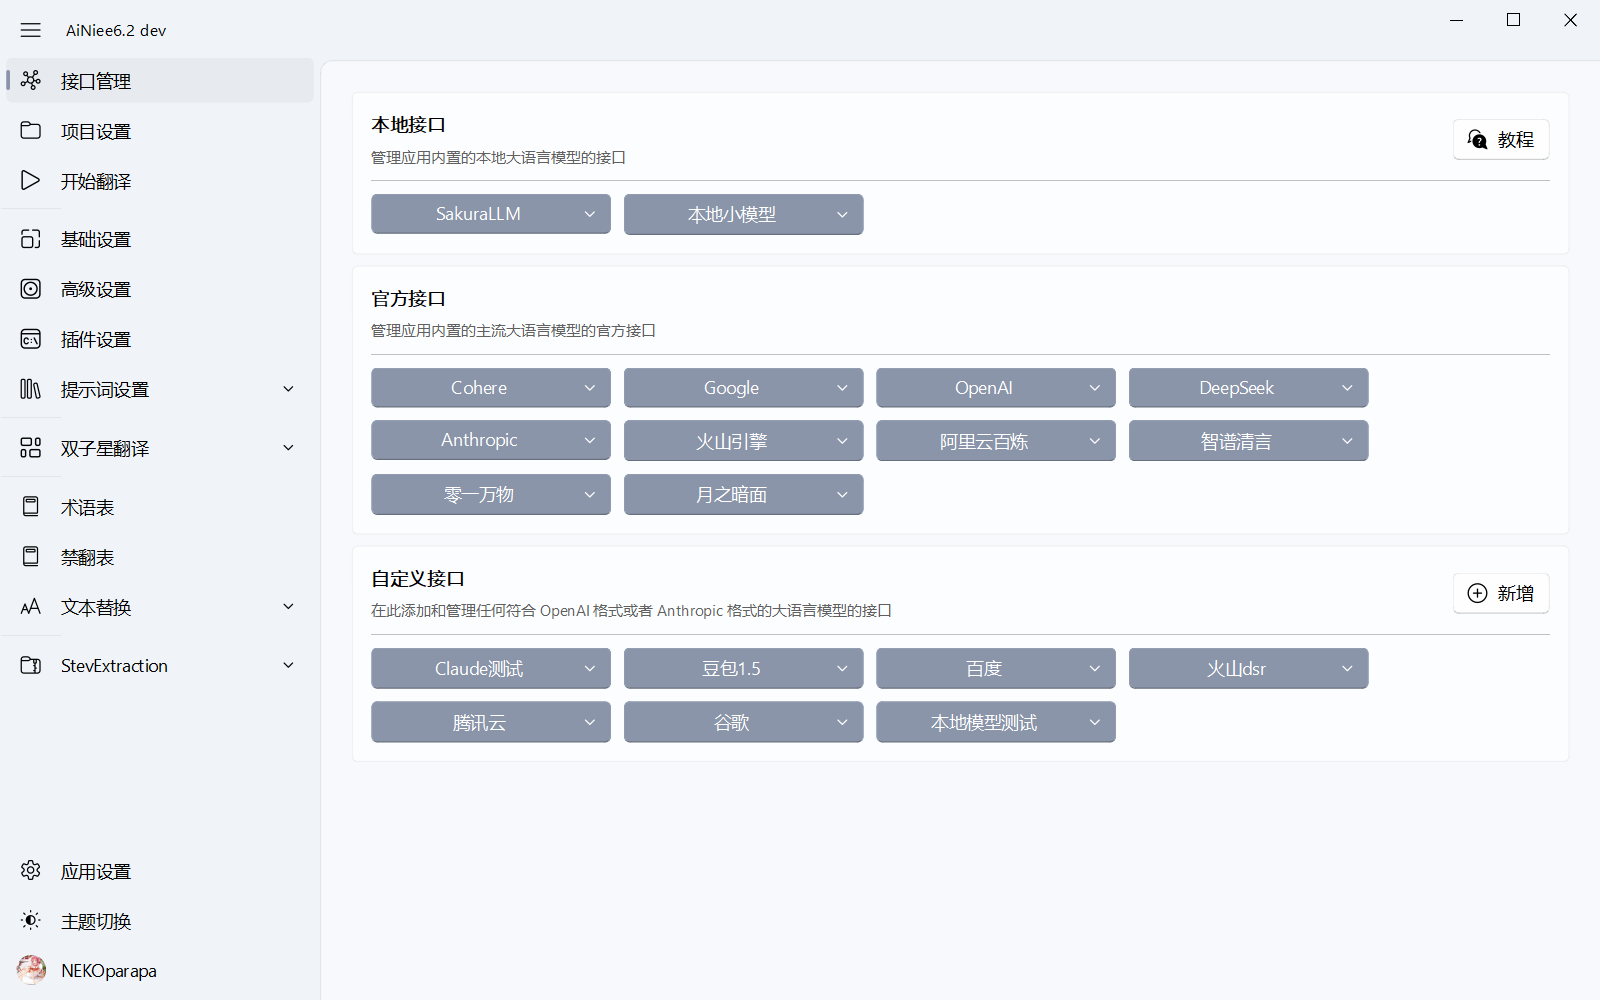
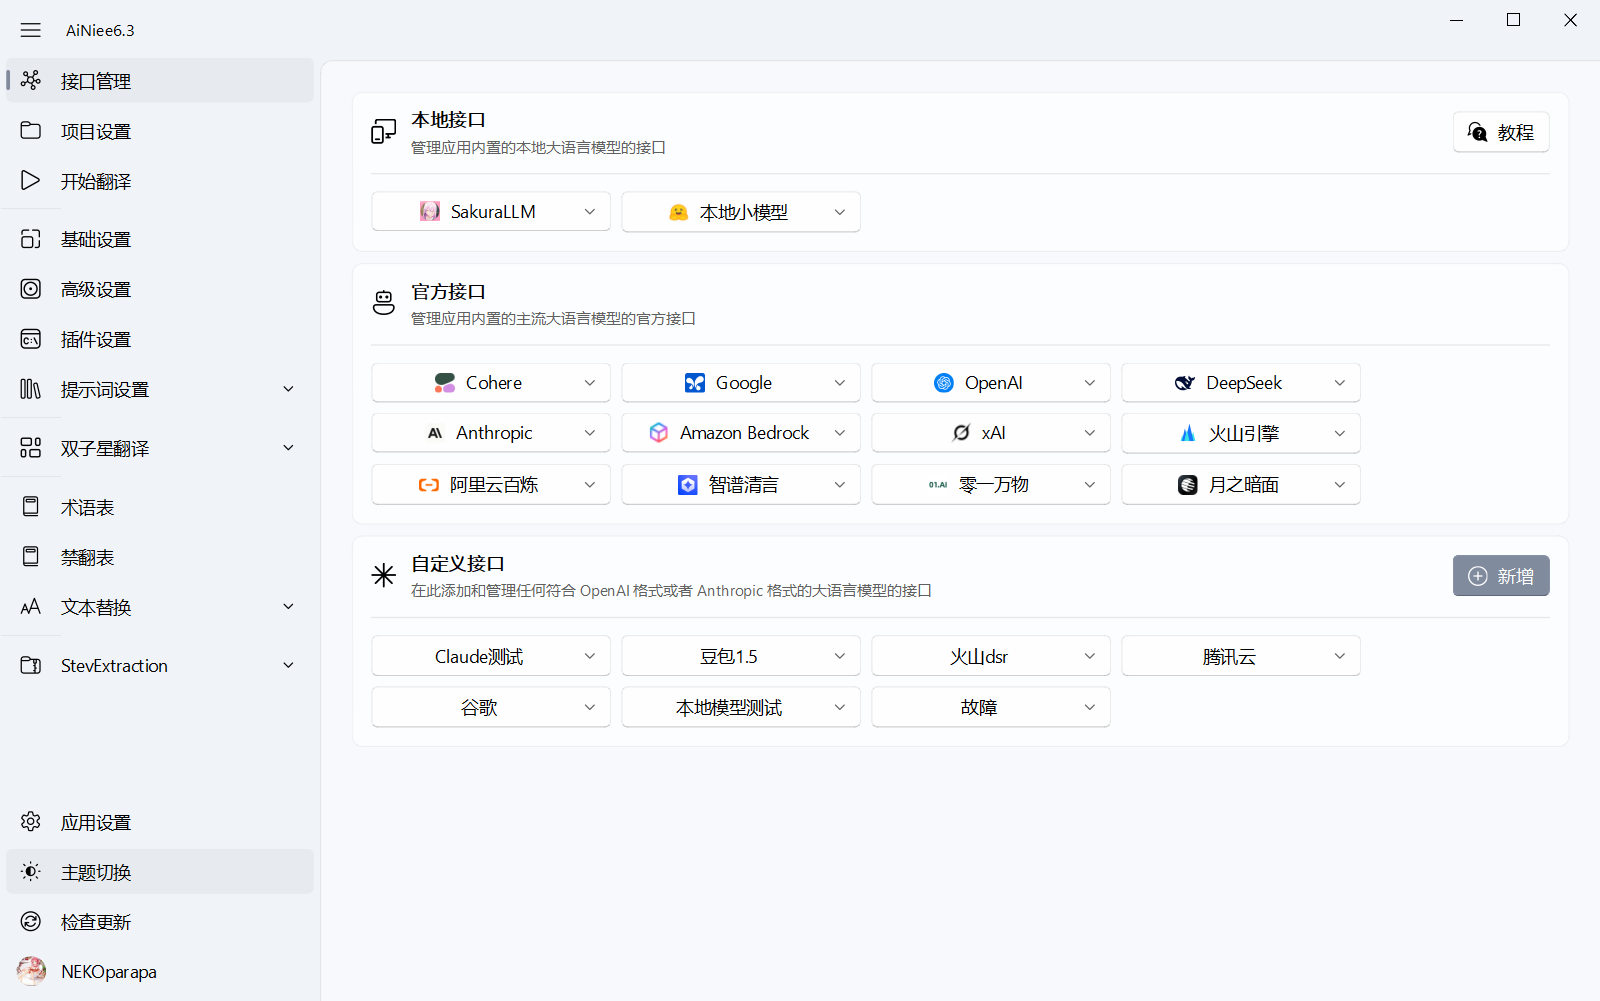
更新主页说明

diff --git a/README.md b/README.md
@@ -58,15 +58,7 @@
   
   >`接口名称`: 选择你之前设置的接口<br>
 
-  >`项目类型`: 选择待翻译的文件类型，小说、字幕、文档可直接进行翻译，游戏需要文本提取工具进行配合<br>
-
-  >`原文语言`: 选择相应的原文文本语言<br>
-
-  >`译文语言`: 你希望翻译成的语言<br>
-
-  >`输入文件夹`: 把原文件放在这个文件夹内<br>
-
-  >`输出文件夹`: 选择翻译后文件的存储文件夹，请不要和输入文件夹一个路径<br>
+  >`输入文件夹`: 将原文件单独放置一个新的文件夹，并将该文件夹拖入框内<br>
 
 * **第三步：开始翻译**
 
@@ -90,6 +82,7 @@
       |[Cohere](https://dashboard.cohere.com/)|Command系列|免费账号可白嫖，速度一般|一般|用途广泛|
       |[Anthropic](https://console.anthropic.com/dashboard)|Claude系列|免费账号绑卡可白嫖少量额度，速度缓慢|贵|用途广泛|
       |[Deepseek](https://platform.deepseek.com/usage)|Deepseek系列|注册送少量免费额度，速度极快|便宜|用途广泛|
+      |[xAI](https://x.ai/)|Grok系列|绑卡预付费，送150刀|一般|用途广泛|
       |[Amazon Bedrock](https://aws.amazon.com/cn/bedrock/)|Claude或其他系列|速度极快|贵|安全限制|
       |[月之暗面](https://platform.moonshot.cn/console/info)|Moonshot系列|注册送少量免费额度|一般|用途广泛|
       |[零一万物](https://platform.lingyiwanwu.com/playground)|Yi系列|注册送少量免费额度|一般|安全限制|
@@ -126,7 +119,7 @@
       |[SExtractor](https://github.com/satan53x/SExtractor)|上手复杂，功能强大，推荐大佬使用|Mtool或者VNText导出文件|
 
 
- * **`📖术语表预提取工具`**
+ * **`🚡术语表预提取工具`**
 
       |工具名|说明|
       |:----:|:-----:|
@@ -134,7 +127,7 @@
       |[KeywordGacha](https://github.com/neavo/KeywordGacha) |使用 AI 技术来自动生成实体词语表的翻译辅助工具|
 
 
- * **`📖本地模型运行工具`**
+ * **`🧰本地模型运行工具`**
 
       |工具名|说明|
       |:----:|:-----:|
@@ -163,7 +156,7 @@
       |[Wolf游戏教程](https://www.bilibili.com/video/BV1SnXbYiEjQ/?share_source=copy_web&vd_source=b0eede35fc5eaa5c382509c6040d6501)|初次使用推荐观看|
 
 
- * **`📺游戏翻译图文教程`**
+ * **`🎫游戏翻译图文教程`**
 
       |视频链接|说明|
       |:----:|:-----:|
@@ -196,7 +189,7 @@
 *  OpenAI官方配置示例:
     > <img src="https://raw.githubusercontent.com/NEKOparapa/AiNiee-chatgpt/main/Example%20image/翻译设置/官方账号设置.png" width="600" height="400"><br>
 
-    > `模型选择`: 请自行了解模型之间的区别后再进行更改。<br>
+    > `模型选择`: 填入该平台提供服务的模型。<br>
   
     >`API KEY`: 填入由OpenAi账号生成的api_key<br>
   
@@ -283,7 +276,6 @@
 ### 插件说明
 </summary>
 
-- [插件 - 标点修复器](https://github.com/NEKOparapa/AiNiee/wiki/PunctuationFixer)
 - [插件 - 语言过滤器](https://github.com/NEKOparapa/AiNiee/wiki/LanguageFilter)
 - [插件 - 文本规范器](https://github.com/NEKOparapa/AiNiee/wiki/TextNormalizer)
 - [插件 - MTool 优化器](https://github.com/NEKOparapa/AiNiee/wiki/MToolOptimizer)
